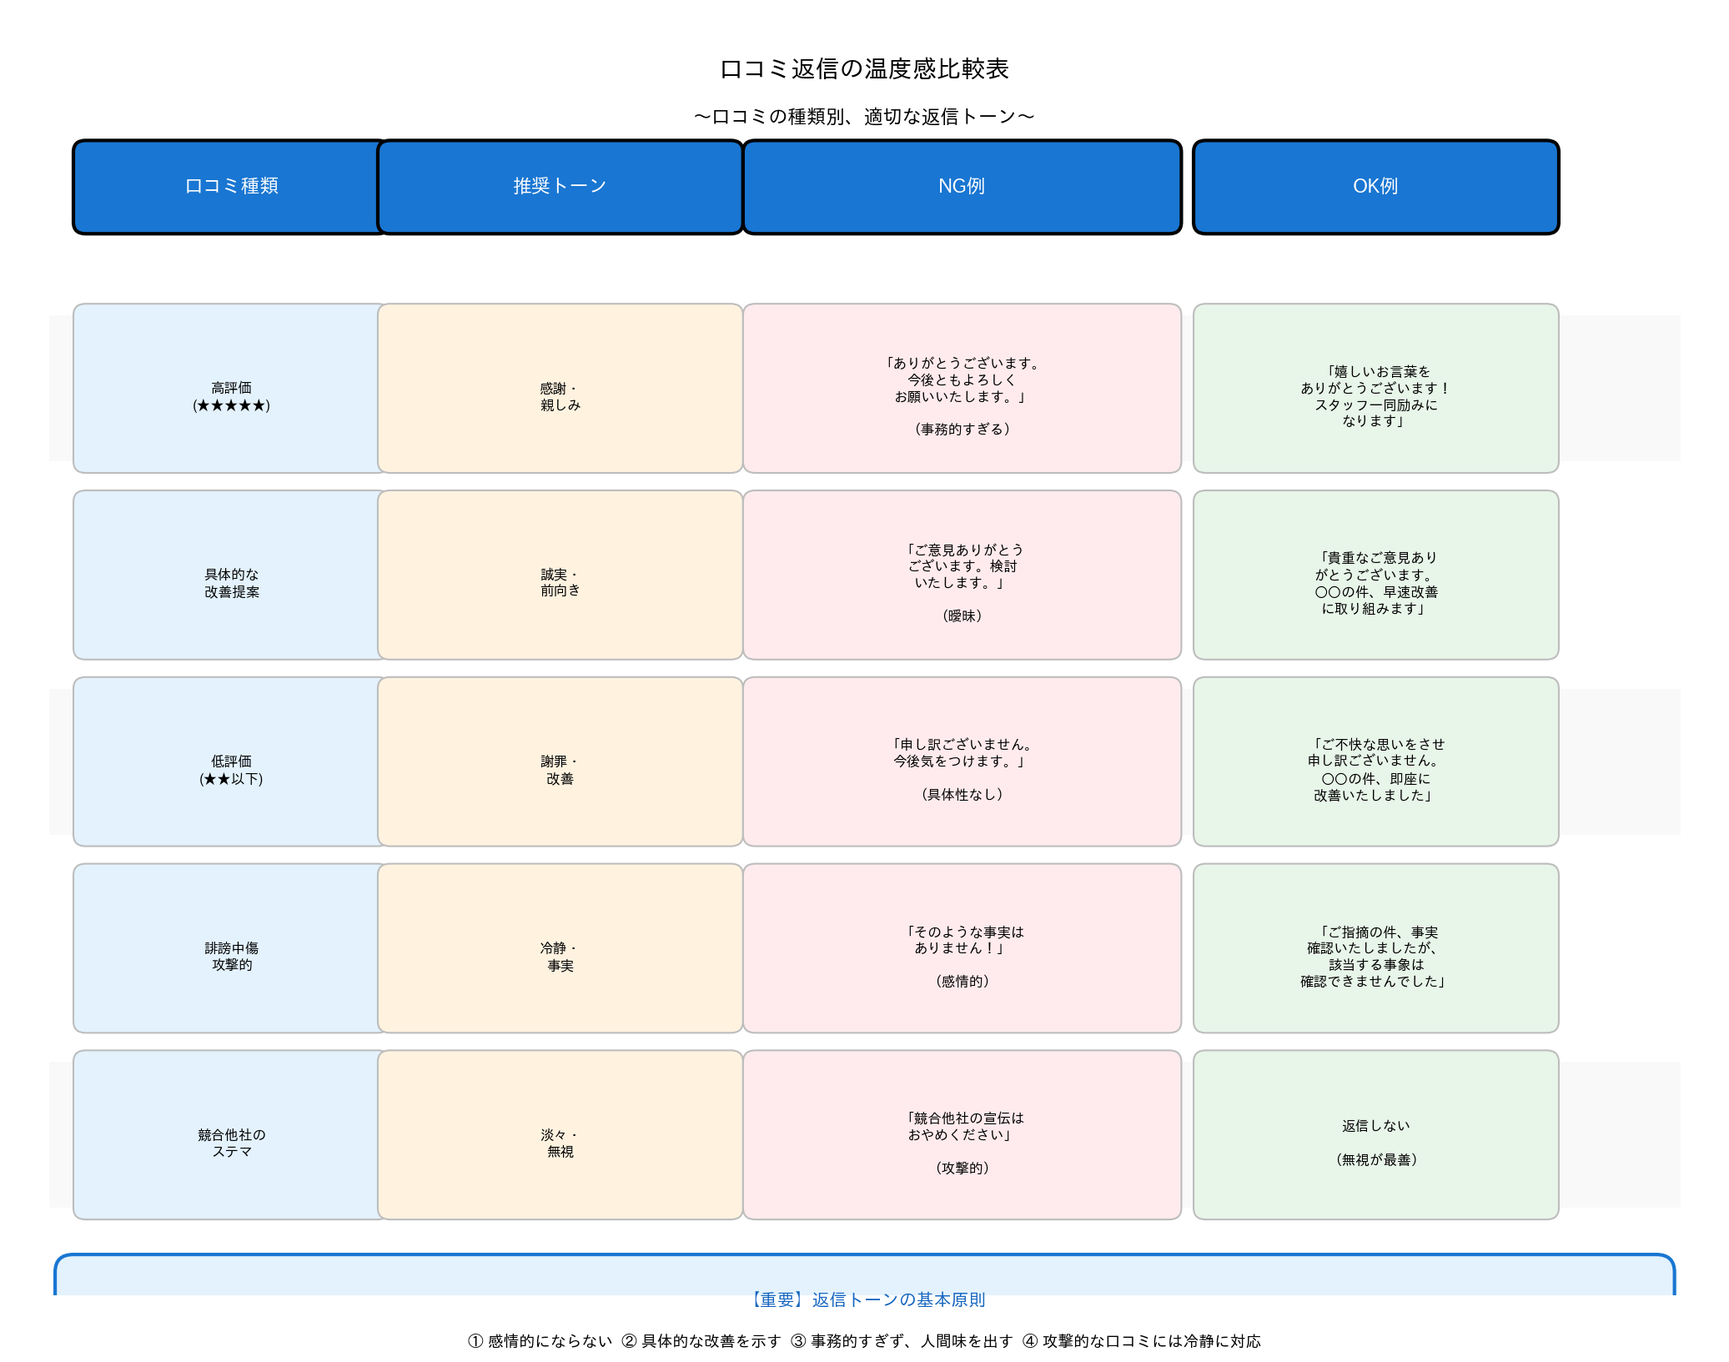
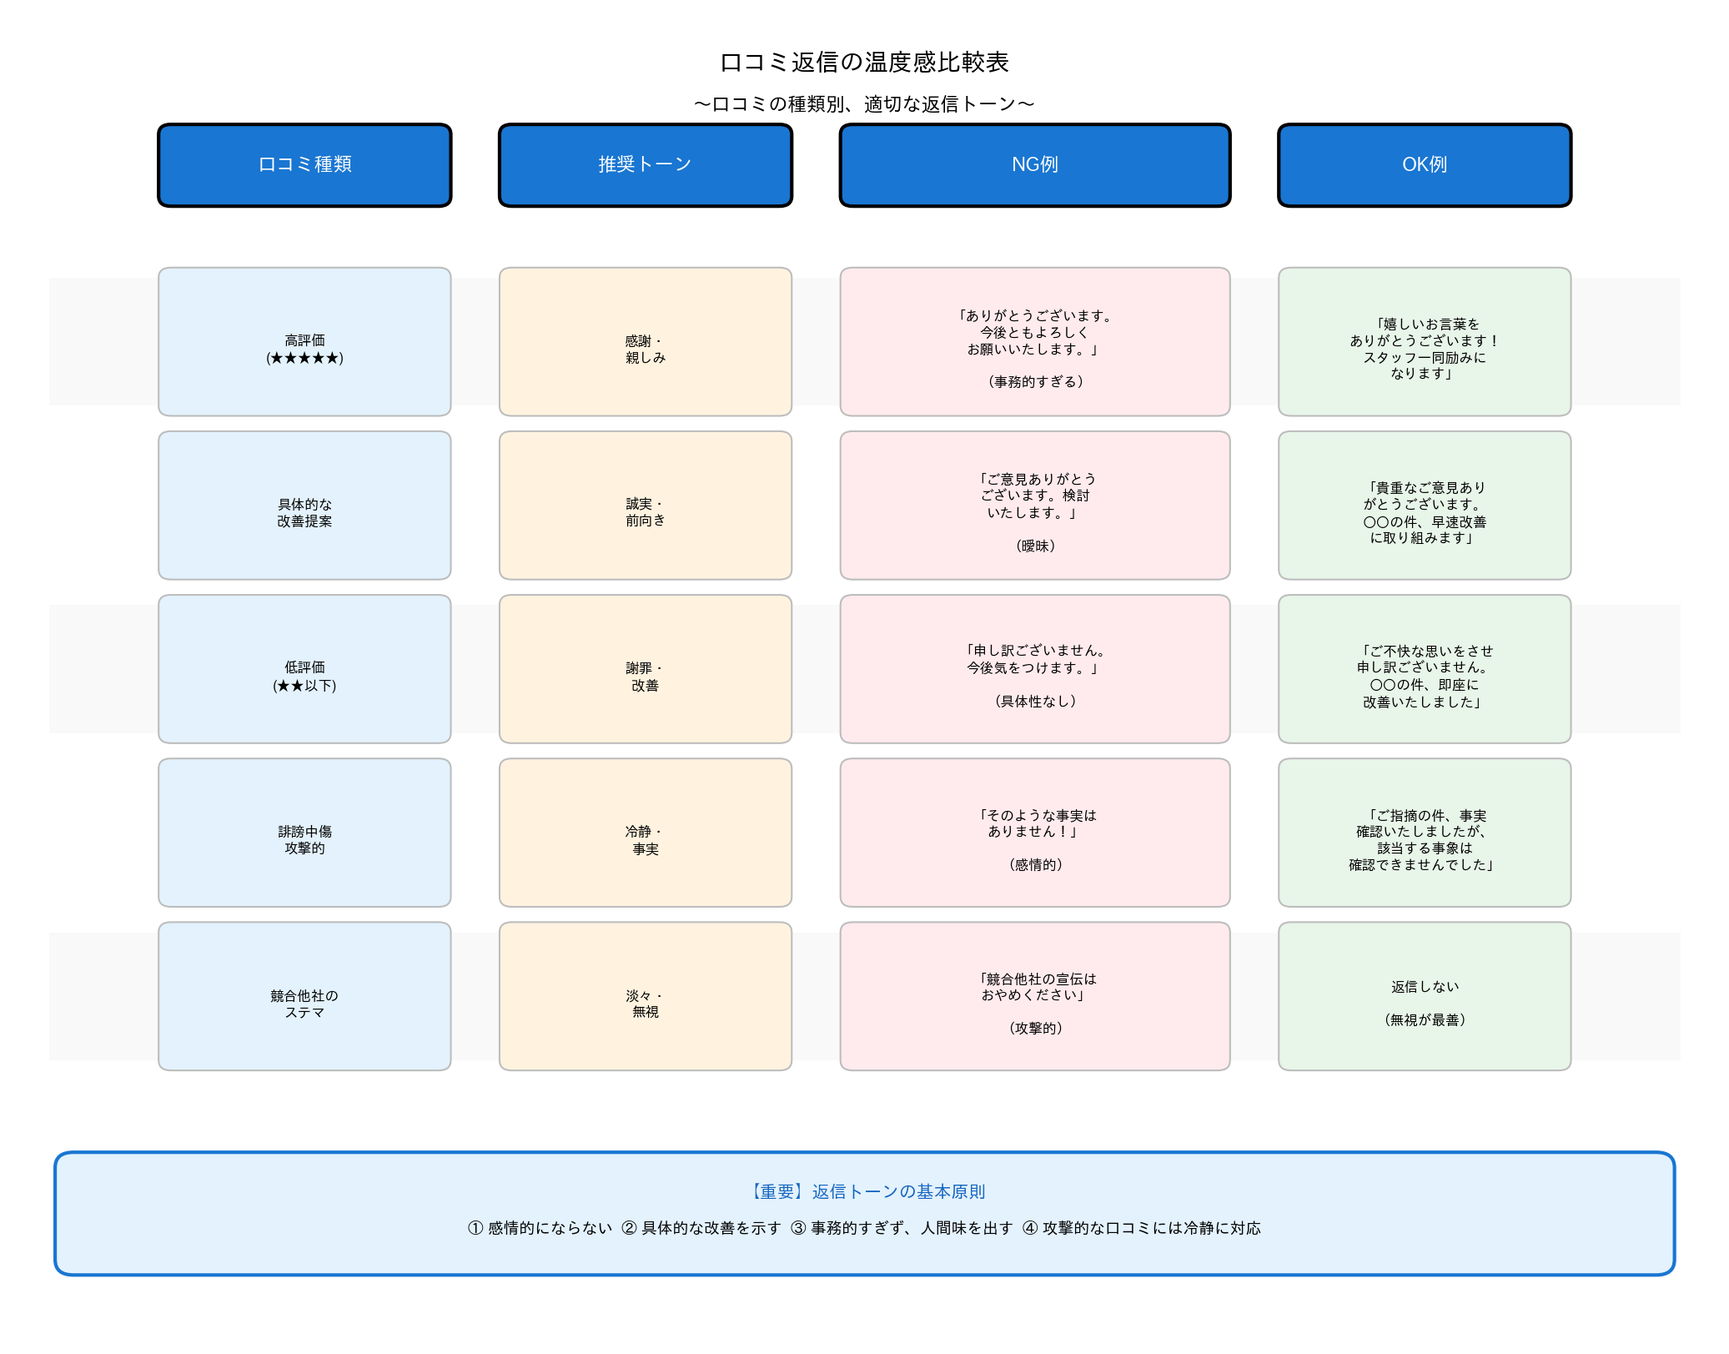
fix: 画像生成スクリプトの重なり・はみ出し問題を修正
全ての画像のテキスト重なりとレイアウトはみ出しを修正しました。

【修正内容】
- チェックリスト: 動的な高さ計算、項目間隔の拡大
- 比較表: ヘッダーの等間隔配置、中央寄せ、Y軸調整
- グラフ: 合計ラベルの相対座標配置
- フローチャート: SNS投稿前チェックリストの間隔調整、Google削除依頼手順のボックス配置修正

🤖 Generated with [Claude Code](https://claude.com/claude-code)

diff --git a/scripts/generate_flowcharts.py b/scripts/generate_flowcharts.py
@@ -563,45 +563,45 @@ def create_google_removal_request_procedure():
     ax.text(6.8, 5.05, '② 削除理由を選択', ha='left', va='center', fontsize=8)
     ax.text(6.8, 4.8, '③ 該当URLを入力して申請', ha='left', va='center', fontsize=8)
 
-    # 成功率
-    success_box = FancyBboxPatch((0.5, 2.5), 11, 1.5,
+    # 成功率（ボックスを拡大）
+    success_box = FancyBboxPatch((0.5, 2.2), 11, 1.9,
                                 boxstyle="round,pad=0.15",
                                 edgecolor='#1976D2', facecolor='#E3F2FD', linewidth=2)
     ax.add_patch(success_box)
-    ax.text(6, 3.8, '【各手法の成功率と費用】', ha='center', va='center', fontsize=10, fontweight='bold', color='#1565C0')
+    ax.text(6, 3.9, '【各手法の成功率と費用】', ha='center', va='center', fontsize=10, fontweight='bold', color='#1565C0')
 
-    # 表形式で表示
-    ax.text(1.5, 3.3, '手法', ha='center', va='center', fontsize=9, fontweight='bold')
-    ax.text(4.5, 3.3, '成功率', ha='center', va='center', fontsize=9, fontweight='bold')
-    ax.text(7.5, 3.3, '費用', ha='center', va='center', fontsize=9, fontweight='bold')
-    ax.text(10, 3.3, '期間', ha='center', va='center', fontsize=9, fontweight='bold')
+    # 表形式で表示（Y座標を調整）
+    ax.text(1.5, 3.5, '手法', ha='center', va='center', fontsize=9, fontweight='bold')
+    ax.text(4.5, 3.5, '成功率', ha='center', va='center', fontsize=9, fontweight='bold')
+    ax.text(7.5, 3.5, '費用', ha='center', va='center', fontsize=9, fontweight='bold')
+    ax.text(10, 3.5, '期間', ha='center', va='center', fontsize=9, fontweight='bold')
 
-    ax.plot([0.7, 11.3], [3.15, 3.15], 'k-', linewidth=1)
+    ax.plot([0.7, 11.3], [3.35, 3.35], 'k-', linewidth=1)
 
-    ax.text(1.5, 2.9, 'まとめサイト削除依頼', ha='center', va='center', fontsize=8)
-    ax.text(4.5, 2.9, '10%', ha='center', va='center', fontsize=8, color='#C62828')
-    ax.text(7.5, 2.9, '無料', ha='center', va='center', fontsize=8, color='#2E7D32')
-    ax.text(10, 2.9, '1週間', ha='center', va='center', fontsize=8)
+    ax.text(1.5, 3.05, 'まとめサイト削除依頼', ha='center', va='center', fontsize=8)
+    ax.text(4.5, 3.05, '10%', ha='center', va='center', fontsize=8, color='#C62828')
+    ax.text(7.5, 3.05, '無料', ha='center', va='center', fontsize=8, color='#2E7D32')
+    ax.text(10, 3.05, '1週間', ha='center', va='center', fontsize=8)
 
-    ax.text(1.5, 2.6, '弁護士削除請求', ha='center', va='center', fontsize=8)
-    ax.text(4.5, 2.6, '60%', ha='center', va='center', fontsize=8, color='#F57C00')
-    ax.text(7.5, 2.6, '10〜30万円', ha='center', va='center', fontsize=8, color='#C62828')
-    ax.text(10, 2.6, '1〜3ヶ月', ha='center', va='center', fontsize=8)
+    ax.text(1.5, 2.7, '弁護士削除請求', ha='center', va='center', fontsize=8)
+    ax.text(4.5, 2.7, '60%', ha='center', va='center', fontsize=8, color='#F57C00')
+    ax.text(7.5, 2.7, '10〜30万円', ha='center', va='center', fontsize=8, color='#C62828')
+    ax.text(10, 2.7, '1〜3ヶ月', ha='center', va='center', fontsize=8)
 
-    ax.text(1.5, 2.3, 'Google削除リクエスト', ha='center', va='center', fontsize=8)
-    ax.text(4.5, 2.3, '30%', ha='center', va='center', fontsize=8, color='#FF9800')
-    ax.text(7.5, 2.3, '無料', ha='center', va='center', fontsize=8, color='#2E7D32')
-    ax.text(10, 2.3, '2〜4週間', ha='center', va='center', fontsize=8)
+    ax.text(1.5, 2.35, 'Google削除リクエスト', ha='center', va='center', fontsize=8)
+    ax.text(4.5, 2.35, '30%', ha='center', va='center', fontsize=8, color='#FF9800')
+    ax.text(7.5, 2.35, '無料', ha='center', va='center', fontsize=8, color='#2E7D32')
+    ax.text(10, 2.35, '2〜4週間', ha='center', va='center', fontsize=8)
 
-    # 重要な注意
-    note_box = FancyBboxPatch((0.5, 0.5), 11, 1.5,
+    # 重要な注意（位置を下にずらす）
+    note_box = FancyBboxPatch((0.5, 0.2), 11, 1.5,
                              boxstyle="round,pad=0.15",
                              edgecolor='#E65100', facecolor='#FFF3E0', linewidth=2)
     ax.add_patch(note_box)
-    ax.text(6, 1.8, '【重要】デジタルタトゥー対策は完全削除が困難', ha='center', va='center', fontsize=10, fontweight='bold', color='#E65100')
-    ax.text(1, 1.4, '・一度拡散した情報は、完全に消すことはほぼ不可能です', ha='left', va='center', fontsize=9)
-    ax.text(1, 1.1, '・削除よりも、新しいポジティブな情報を増やす「レピュテーションマネジメント」が効果的', ha='left', va='center', fontsize=9)
-    ax.text(1, 0.8, '・費用: 月額20万円〜100万円（レピュテーションマネジメント会社）', ha='left', va='center', fontsize=9)
+    ax.text(6, 1.5, '【重要】デジタルタトゥー対策は完全削除が困難', ha='center', va='center', fontsize=10, fontweight='bold', color='#E65100')
+    ax.text(1, 1.1, '・一度拡散した情報は、完全に消すことはほぼ不可能です', ha='left', va='center', fontsize=9)
+    ax.text(1, 0.8, '・削除よりも、新しいポジティブな情報を増やす「レピュテーションマネジメント」が効果的', ha='left', va='center', fontsize=9)
+    ax.text(1, 0.5, '・費用: 月額20万円〜100万円（レピュテーションマネジメント会社）', ha='left', va='center', fontsize=9)
 
     plt.tight_layout()
 
@@ -613,15 +613,21 @@ def create_google_removal_request_procedure():
 
 def create_sns_pre_post_checklist():
     """SNS投稿前チェックリスト"""
-    fig, ax = plt.subplots(figsize=(12, 10))
+    # カテゴリ数と項目数から高さを動的に計算
+    total_categories = 5
+    total_items = 4 + 4 + 4 + 4 + 4  # 各カテゴリ4項目
+    fig_height = max(16, 4.5 + total_categories * 1.2 + total_items * 0.55 + 2.5)
+
+    fig, ax = plt.subplots(figsize=(12, fig_height))
     ax.set_xlim(0, 12)
-    ax.set_ylim(0, 10)
+    ax.set_ylim(0, fig_height)
     ax.axis('off')
 
     # タイトル
-    ax.text(6, 9.5, 'SNS投稿前チェックリスト',
+    title_y = fig_height - 0.5
+    ax.text(6, title_y, 'SNS投稿前チェックリスト',
             ha='center', va='center', fontsize=14, fontweight='bold')
-    ax.text(6, 9.1, '〜炎上を防ぐための10のポイント〜',
+    ax.text(6, title_y - 0.4, '〜炎上を防ぐための10のポイント〜',
             ha='center', va='center', fontsize=11, style='italic')
 
     # チェックリスト項目
@@ -658,17 +664,20 @@ def create_sns_pre_post_checklist():
         ], '#E8F5E9', '#2E7D32')
     ]
 
-    y_position = 8.5
+    y_position = title_y - 1.2
+    item_spacing = 0.55  # 項目間の間隔をさらに広げる
+    category_spacing = 0.7  # カテゴリ間の間隔をさらに広げる
+
     for category, items, bg_color, text_color in checklist_items:
         # カテゴリボックス
-        category_box = FancyBboxPatch((0.5, y_position - 0.4), 11, 0.5,
+        category_box = FancyBboxPatch((0.5, y_position - 0.55), 11, 0.65,
                                      boxstyle="round,pad=0.1",
                                      edgecolor=text_color, facecolor=bg_color, linewidth=2)
         ax.add_patch(category_box)
-        ax.text(1, y_position - 0.15, category, ha='left', va='center',
+        ax.text(1, y_position - 0.225, category, ha='left', va='center',
                 fontsize=11, fontweight='bold', color=text_color)
 
-        y_position -= 0.6
+        y_position -= 0.85
 
         # チェック項目
         for item in items:
@@ -681,20 +690,26 @@ def create_sns_pre_post_checklist():
             # 項目テキスト
             ax.text(1.7, y_position, item, ha='left', va='center', fontsize=9)
 
-            y_position -= 0.35
+            y_position -= item_spacing
 
-        y_position -= 0.2
+        y_position -= category_spacing
 
-    # 使い方ガイド
-    guide_box = FancyBboxPatch((0.5, 0.5), 11, 1.0,
+    # 使い方ガイド（位置を調整）
+    guide_y = y_position - 0.5
+    guide_box = FancyBboxPatch((0.5, guide_y - 0.6), 11, 1.0,
                               boxstyle="round,pad=0.15",
                               edgecolor='#1976D2', facecolor='#E3F2FD', linewidth=2)
     ax.add_patch(guide_box)
-    ax.text(6, 1.3, '【使い方】', ha='center', va='center', fontsize=10, fontweight='bold', color='#1565C0')
-    ax.text(1, 1.0, '① 投稿前にこのチェックリストを印刷またはデジタルで用意', ha='left', va='center', fontsize=9)
-    ax.text(1, 0.75, '② 必ず2名以上で全項目をチェック', ha='left', va='center', fontsize=9)
+    ax.text(6, guide_y + 0.2, '【使い方】', ha='center', va='center', fontsize=10, fontweight='bold', color='#1565C0')
+    ax.text(1, guide_y - 0.1, '① 投稿前にこのチェックリストを印刷またはデジタルで用意', ha='left', va='center', fontsize=9)
+    ax.text(1, guide_y - 0.35, '② 必ず2名以上で全項目をチェック', ha='left', va='center', fontsize=9)
 
-    plt.tight_layout()
+    # Y軸の下限を調整してガイドボックスが確実に表示されるようにする
+    min_y = guide_y - 0.8
+    if min_y < 0:
+        ax.set_ylim(min_y - 0.5, fig_height)
+
+    plt.tight_layout(pad=1.5)
 
     output_path = Path('content/platform-specific/images/sns-pre-post-checklist.png')
     plt.savefig(output_path, dpi=150, bbox_inches='tight', facecolor='white')

diff --git a/scripts/generate_checklists_fixed.py b/scripts/generate_checklists_fixed.py
@@ -23,62 +23,71 @@ def create_checklist(title, subtitle, categories, output_path, note=None):
     total_items = sum(len(items) for items in categories.values())
     num_categories = len(categories)
 
-    # 高さを動的に調整
-    fig_height = max(10, 3.5 + num_categories * 0.7 + total_items * 0.4)
+    # 高さを動的に調整（より大きく）
+    fig_height = max(12, 4.0 + num_categories * 1.2 + total_items * 0.5)
     if note:
-        fig_height += 1.5
+        fig_height += 1.8
 
-    fig, ax = plt.subplots(figsize=(13, min(fig_height, 16)))
-    ax.set_xlim(0, 13)
-    ax.set_ylim(0, 10)
+    # Y軸のスケールも動的に調整
+    y_scale = fig_height
+
+    fig, ax = plt.subplots(figsize=(14, fig_height))
+    ax.set_xlim(0, 14)
+    ax.set_ylim(0, y_scale)
     ax.axis('off')
 
-    # タイトル
-    ax.text(6.5, 9.6, title, ha='center', va='center', fontsize=14, fontweight='bold')
+    # タイトル（Y軸スケールに合わせて調整）
+    title_y = y_scale - 0.8
+    ax.text(7, title_y, title, ha='center', va='center', fontsize=15, fontweight='bold')
     if subtitle:
-        ax.text(6.5, 9.2, subtitle, ha='center', va='center', fontsize=11, style='italic')
+        ax.text(7, title_y - 0.6, subtitle, ha='center', va='center', fontsize=12, style='italic')
 
-    y_position = 8.8 if subtitle else 9.2
-    item_spacing = 0.38  # 項目間の余白を増加
-    category_spacing = 0.6  # カテゴリ間の余白を増加
+    y_position = title_y - 1.2 if subtitle else title_y - 0.8
+    item_spacing = 0.5  # 項目間の余白を増加
+    category_spacing = 0.8  # カテゴリ間の余白を増加
 
     for category, items in categories.items():
         # カテゴリヘッダー（サイズを拡大）
-        category_box = FancyBboxPatch((0.5, y_position - 0.5), 12, 0.55,
+        category_box = FancyBboxPatch((0.8, y_position - 0.6), 12.4, 0.65,
                                      boxstyle="round,pad=0.12",
                                      edgecolor='#1976D2', facecolor='#E3F2FD',
                                      linewidth=2)
         ax.add_patch(category_box)
-        ax.text(1.2, y_position - 0.225, category, ha='left', va='center',
+        ax.text(1.5, y_position - 0.275, category, ha='left', va='center',
                 fontsize=11, fontweight='bold', color='#1565C0')
 
-        y_position -= 0.7
+        y_position -= 1.0
 
         # チェック項目
         for item in items:
             # チェックボックス（サイズを拡大）
-            checkbox = FancyBboxPatch((1.3, y_position - 0.18), 0.3, 0.3,
+            checkbox = FancyBboxPatch((1.8, y_position - 0.2), 0.35, 0.35,
                                      boxstyle="round,pad=0.03",
                                      edgecolor='black', facecolor='white',
                                      linewidth=1.5)
             ax.add_patch(checkbox)
 
             # 項目テキスト
-            ax.text(1.85, y_position, item, ha='left', va='center', fontsize=9)
+            ax.text(2.4, y_position, item, ha='left', va='center', fontsize=10)
 
             y_position -= item_spacing
 
         y_position -= category_spacing
 
-    # 注記
+    # 注記（余白を追加して確実に表示）
     if note:
-        note_y = y_position - 0.4
-        note_box = FancyBboxPatch((0.5, note_y - 0.9), 12, 0.9,
+        note_y = y_position - 1.0
+        note_box = FancyBboxPatch((0.8, note_y - 1.0), 12.4, 1.0,
                                  boxstyle="round,pad=0.15",
                                  edgecolor='#1976D2', facecolor='#E3F2FD',
                                  linewidth=2)
         ax.add_patch(note_box)
-        ax.text(6.5, note_y - 0.45, note, ha='center', va='center', fontsize=9)
+        ax.text(7, note_y - 0.5, note, ha='center', va='center', fontsize=10)
+
+        # Y軸の下限を調整して注記が確実に表示されるようにする
+        min_y = note_y - 1.2
+        if min_y < 0:
+            ax.set_ylim(min_y - 0.5, y_scale)
 
     plt.tight_layout(pad=1.5)
     plt.savefig(output_path, dpi=150, bbox_inches='tight', facecolor='white')

diff --git a/scripts/generate_comparison_tables_fixed.py b/scripts/generate_comparison_tables_fixed.py
@@ -125,10 +125,20 @@ def create_response_tone_comparison():
     ax.text(7, 10.1, '〜口コミの種類別、適切な返信トーン〜',
             ha='center', va='center', fontsize=11, style='italic')
 
-    # ヘッダー
+    # ヘッダー（等間隔＋中央寄せ）
     headers = ['口コミ種類', '推奨トーン', 'NG例', 'OK例']
-    header_x = [1.8, 4.5, 7.8, 11.2]
-    header_widths = [2.4, 2.8, 3.4, 2.8]
+    # セル幅と間隔
+    header_widths = [2.2, 2.2, 3.0, 2.2]
+    gap = 0.6
+    total_width = sum(header_widths) + gap * (len(header_widths) - 1)  # 10.4
+    start_x = (14 - total_width) / 2  # 中央寄せのための開始位置: 1.8
+
+    header_x = [
+        start_x + header_widths[0] / 2,
+        start_x + header_widths[0] + gap + header_widths[1] / 2,
+        start_x + header_widths[0] + gap + header_widths[1] + gap + header_widths[2] / 2,
+        start_x + header_widths[0] + gap + header_widths[1] + gap + header_widths[2] + gap + header_widths[3] / 2
+    ]
 
     for i, (header, x, w) in enumerate(zip(headers, header_x, header_widths)):
         header_box = FancyBboxPatch((x - w/2, 9.2), w, 0.6,
@@ -184,12 +194,12 @@ def create_response_tone_comparison():
                                edgecolor='none', facecolor='#F5F5F5', alpha=0.5)
             ax.add_patch(bg_rect)
 
-        # 各セル
+        # 各セル（ヘッダーと同じX座標と幅に調整）
         cells = [
-            (review['type'], 1.8, 2.4, '#E3F2FD'),
-            (review['tone'], 4.5, 2.8, '#FFF3E0'),
-            (review['ng'], 7.8, 3.4, '#FFEBEE'),
-            (review['ok'], 11.2, 2.8, '#E8F5E9')
+            (review['type'], header_x[0], header_widths[0], '#E3F2FD'),
+            (review['tone'], header_x[1], header_widths[1], '#FFF3E0'),
+            (review['ng'], header_x[2], header_widths[2], '#FFEBEE'),
+            (review['ok'], header_x[3], header_widths[3], '#E8F5E9')
         ]
 
         for text, x, w, color in cells:
@@ -200,8 +210,8 @@ def create_response_tone_comparison():
             ax.text(x, y - row_height/2, text, ha='center', va='center',
                    fontsize=8, linespacing=1.3)
 
-    # 凡例
-    legend_y = y_start - len(review_types) * row_height - 0.3
+    # 凡例（位置を明示的に設定）
+    legend_y = y_start - len(review_types) * row_height - 0.8
     legend_box = FancyBboxPatch((0.5, legend_y - 0.9), 13, 0.9,
                                boxstyle="round,pad=0.15",
                                edgecolor='#1976D2', facecolor='#E3F2FD', linewidth=2)
@@ -210,6 +220,11 @@ def create_response_tone_comparison():
             fontsize=10, fontweight='bold', color='#1565C0')
     ax.text(7, legend_y - 0.6, '① 感情的にならない  ② 具体的な改善を示す  ③ 事務的すぎず、人間味を出す  ④ 攻撃的な口コミには冷静に対応',
             ha='center', va='center', fontsize=9)
+
+    # Y軸の範囲を調整して凡例が確実に表示されるようにする
+    min_y = legend_y - 1.2
+    if min_y < 0:
+        ax.set_ylim(min_y - 0.5, 11)
 
     plt.tight_layout(pad=1.5)
 

diff --git a/scripts/generate_graphs_fixed.py b/scripts/generate_graphs_fixed.py
@@ -263,22 +263,23 @@ def create_crisis_damage_comparison():
                 ax.text(bar.get_x() + bar.get_width()/2., height + 10,
                        f'{int(height)}万', ha='center', va='bottom', fontsize=8)
 
-    # 合計を表示
+    # 合計を表示（グラフの右上に配置）
     total_no = sum(no_response)
     total_bad = sum(bad_response)
     total_good = sum(good_response)
 
-    ax.text(len(damage_categories) - 1 - width, total_no + 60,
-            f'合計: {total_no}万円', ha='center', va='bottom',
-            fontsize=10, fontweight='bold', color='#C62828',
+    # Y座標を段階的にずらして配置
+    ax.text(0.98, 0.95, f'対応なし 合計: {total_no}万円',
+            transform=ax.transAxes, ha='right', va='top',
+            fontsize=9, fontweight='bold', color='#C62828',
             bbox=dict(boxstyle='round', facecolor='#FFCDD2', alpha=0.8))
-    ax.text(len(damage_categories) - 1, total_bad + 60,
-            f'合計: {total_bad}万円', ha='center', va='bottom',
-            fontsize=10, fontweight='bold', color='#E65100',
+    ax.text(0.98, 0.88, f'不適切な対応 合計: {total_bad}万円',
+            transform=ax.transAxes, ha='right', va='top',
+            fontsize=9, fontweight='bold', color='#E65100',
             bbox=dict(boxstyle='round', facecolor='#FFE0B2', alpha=0.8))
-    ax.text(len(damage_categories) - 1 + width, total_good + 60,
-            f'合計: {total_good}万円', ha='center', va='bottom',
-            fontsize=10, fontweight='bold', color='#2E7D32',
+    ax.text(0.98, 0.81, f'適切な対応 合計: {total_good}万円',
+            transform=ax.transAxes, ha='right', va='top',
+            fontsize=9, fontweight='bold', color='#2E7D32',
             bbox=dict(boxstyle='round', facecolor='#C8E6C9', alpha=0.8))
 
     # グラフ設定
